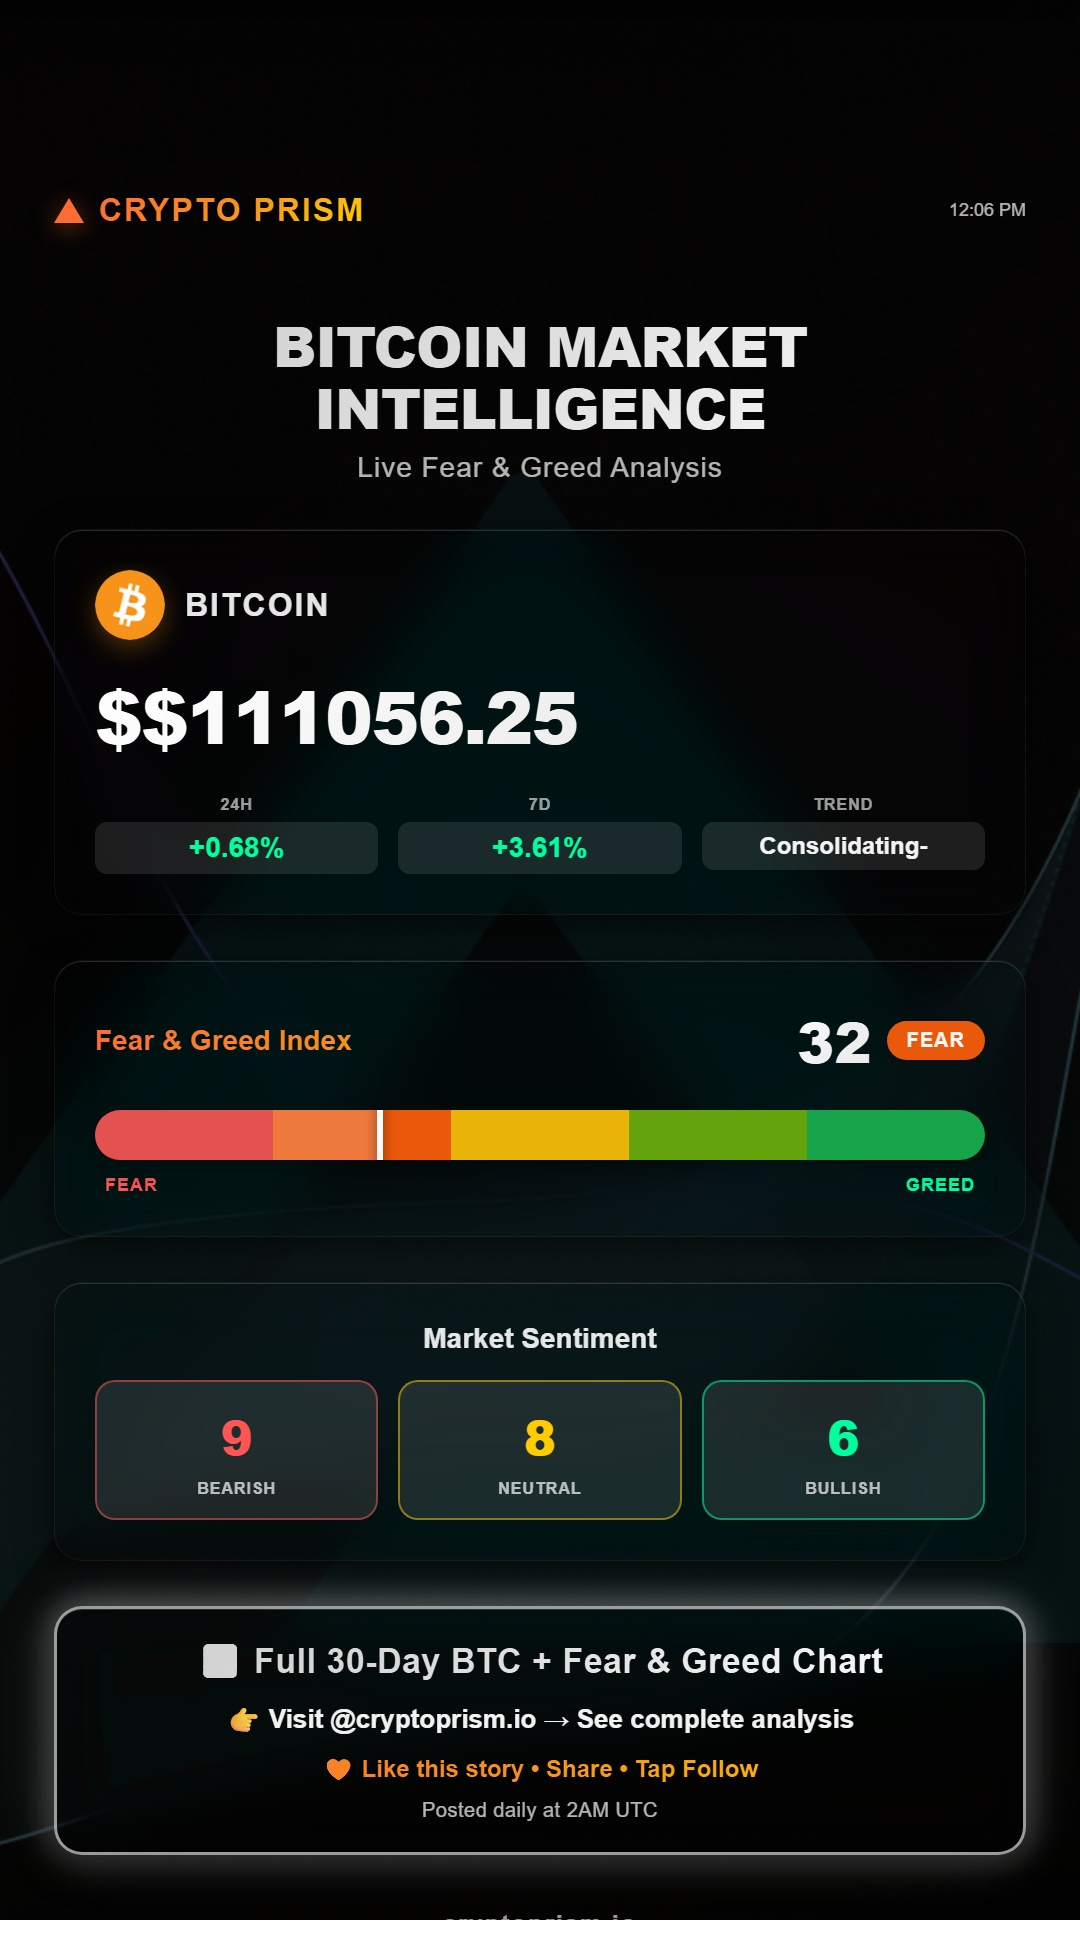
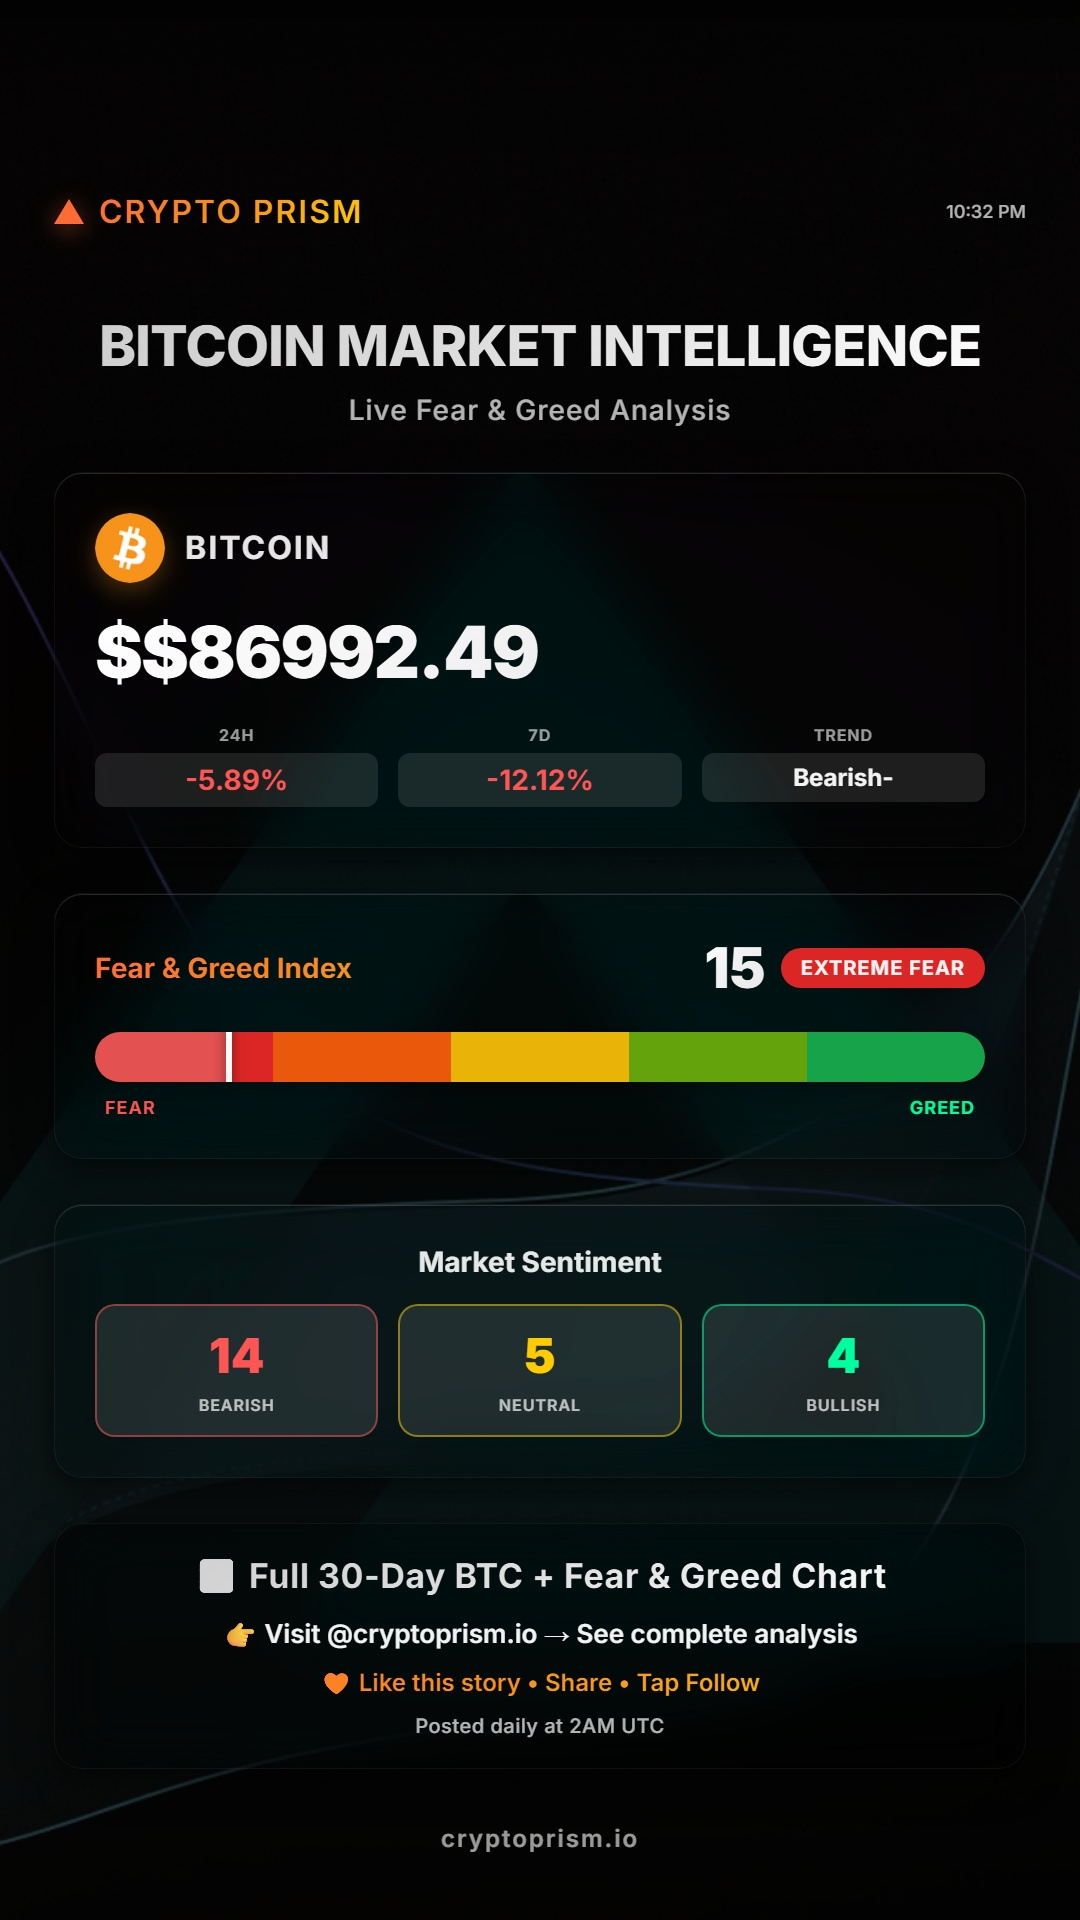
fix: Refresh expired Instagram session and update generated outputs
- Refresh Instagram session (30-day validity)
- Update bitcoin story HTML output with latest data
- Update associated CSS styling
- Regenerate output image

🤖 Generated with [Claude Code](https://claude.com/claude-code)

diff --git a/output_html/bitcoin_story_output.html b/output_html/bitcoin_story_output.html
@@ -15,7 +15,7 @@
                 <div class="prism-triangle"></div>
                 <span class="brand-text">CRYPTO PRISM</span>
             </div>
-            <div class="story-timestamp">12:06 PM</div>
+            <div class="story-timestamp">10:32 PM</div>
         </div>
 
         <!-- Hook Section -->
@@ -31,23 +31,23 @@
                 <img src="https://s2.coinmarketcap.com/static/img/coins/64x64/1.png" alt="BTC" class="btc-logo">
                 <div class="btc-label">BITCOIN</div>
             </div>
-            <div class="btc-price-main">$$111056.25</div>
+            <div class="btc-price-main">$$86992.49</div>
             <div class="btc-stats-row">
                 <div class="stat-item">
                     <div class="stat-label">24H</div>
-                    <div class="stat-value positive">
-                        +0.68%
+                    <div class="stat-value negative">
+                        -5.89%
                     </div>
                 </div>
                 <div class="stat-item">
                     <div class="stat-label">7D</div>
-                    <div class="stat-value positive">
-                        +3.61%
+                    <div class="stat-value negative">
+                        -12.12%
                     </div>
                 </div>
                 <div class="stat-item">
                     <div class="stat-label">TREND</div>
-                    <div class="stat-value trend-badge ">Consolidating-</div>
+                    <div class="stat-value trend-badge ">Bearish-</div>
                 </div>
             </div>
         </div>
@@ -57,9 +57,9 @@
             <div class="fg-header">
                 <div class="fg-title">Fear & Greed Index</div>
                 <div class="fg-value-container">
-                    <div class="fg-value">32</div>
-                    <div class="fg-label fear-greed-fear">
-                        Fear
+                    <div class="fg-value">15</div>
+                    <div class="fg-label fear-greed-extreme-fear">
+                        Extreme fear
                     </div>
                 </div>
             </div>
@@ -67,8 +67,8 @@
             <!-- Fear & Greed Bar Chart -->
             <div class="fg-bar-container">
                 <div class="fg-bar">
-                    <div class="fg-fill" style="width: 32.0%"></div>
-                    <div class="fg-marker" style="left: 32.0%"></div>
+                    <div class="fg-fill" style="width: 15.0%"></div>
+                    <div class="fg-marker" style="left: 15.0%"></div>
                 </div>
                 <div class="fg-labels">
                     <span class="fg-label-left">FEAR</span>
@@ -82,15 +82,15 @@
             <div class="sentiment-title">Market Sentiment</div>
             <div class="sentiment-grid">
                 <div class="sentiment-box bearish">
-                    <div class="sentiment-count">9</div>
+                    <div class="sentiment-count">14</div>
                     <div class="sentiment-label">Bearish</div>
                 </div>
                 <div class="sentiment-box neutral">
-                    <div class="sentiment-count">8</div>
+                    <div class="sentiment-count">5</div>
                     <div class="sentiment-label">Neutral</div>
                 </div>
                 <div class="sentiment-box bullish">
-                    <div class="sentiment-count">6</div>
+                    <div class="sentiment-count">4</div>
                     <div class="sentiment-label">Bullish</div>
                 </div>
             </div>

diff --git a/output_html/style_bitcoin_story.css b/output_html/style_bitcoin_story.css
@@ -434,19 +434,16 @@ body::before {
 }
 
 .cta-card {
-    background: rgba(0, 0, 0, 0.1);
+    background: rgba(0, 0, 0, 0.35);
     backdrop-filter: blur(28px) saturate(180%);
     -webkit-backdrop-filter: blur(28px) saturate(180%);
-    border: 3px solid rgba(255, 255, 255, 0.6);
+    border: 1px solid rgba(255, 255, 255, 0.05);
     border-radius: 28px;
     padding: 30px 20px;
     text-align: center;
     box-shadow:
         0 12px 40px rgba(0, 0, 0, 0.4),
-        0 6px 20px rgba(0, 0, 0, 0.3),
-        inset 0 1px 0 rgba(255, 255, 255, 0.15),
-        0 0 30px rgba(255, 255, 255, 0.4),
-        0 0 60px rgba(255, 255, 255, 0.2);
+        0 6px 20px rgba(0, 0, 0, 0.3);
 }
 
 .cta-title {
